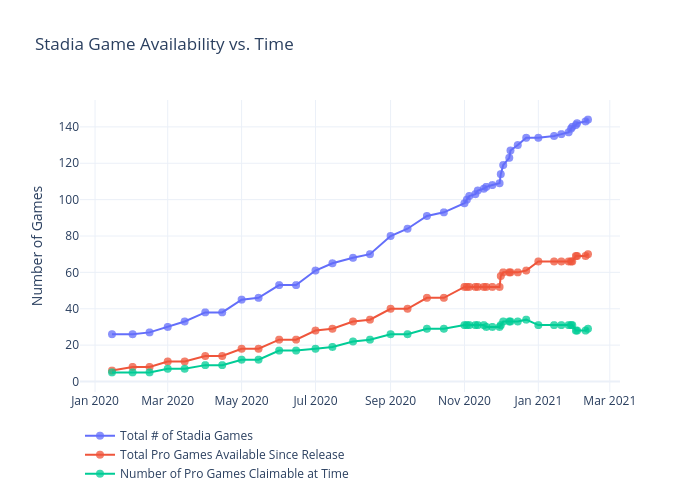
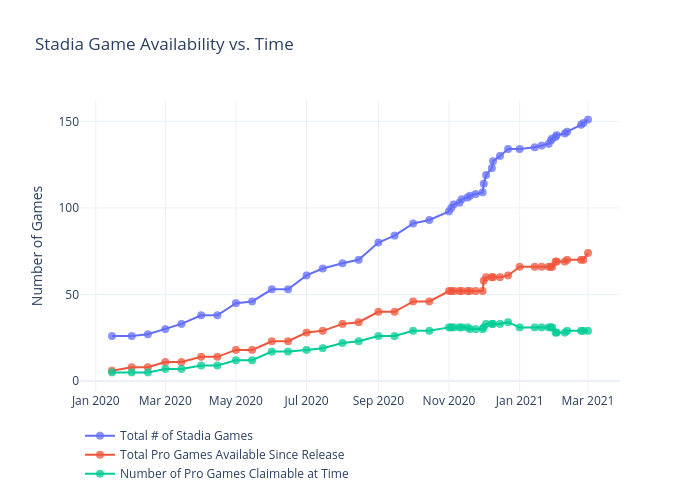
Add files via upload

diff --git a/games/figure.js b/games/figure.js
@@ -56,7 +56,10 @@ var figure = {
                 "2021-02-01",
                 "2021-02-02",
                 "2021-02-09",
-                "2021-02-11"
+                "2021-02-11",
+                "2021-02-23",
+                "2021-02-25",
+                "2021-03-01"
             ],
             "ysrc": "jdeslip:358:e03fe9",
             "y": [
@@ -104,7 +107,10 @@ var figure = {
                 "141",
                 "142",
                 "143",
-                "144"
+                "144",
+                "148",
+                "149",
+                "151"
             ],
             "marker": {
                 "size": 8,
@@ -170,7 +176,10 @@ var figure = {
                 "2021-02-01",
                 "2021-02-02",
                 "2021-02-09",
-                "2021-02-11"
+                "2021-02-11",
+                "2021-02-23",
+                "2021-02-25",
+                "2021-03-01"
             ],
             "ysrc": "jdeslip:358:5f7e72",
             "y": [
@@ -218,7 +227,10 @@ var figure = {
                 "69",
                 "69",
                 "69",
-                "70"
+                "70",
+                "70",
+                "70",
+                "74"
             ],
             "marker": {
                 "size": 8,
@@ -284,7 +296,10 @@ var figure = {
                 "2021-02-01",
                 "2021-02-02",
                 "2021-02-09",
-                "2021-02-11"
+                "2021-02-11",
+                "2021-02-23",
+                "2021-02-25",
+                "2021-03-01"
             ],
             "ysrc": "jdeslip:358:81d550",
             "y": [
@@ -332,6 +347,9 @@ var figure = {
                 "28",
                 "28",
                 "28",
+                "29",
+                "29",
+                "29",
                 "29"
             ],
             "marker": {
@@ -350,8 +368,8 @@ var figure = {
         "xaxis": {
             "type": "date",
             "range": [
-                "2019-12-21 16:49:27.8148",
-                "2021-03-07 07:10:32.1852"
+                "2019-12-20 14:06:50.6155",
+                "2021-03-26 09:53:09.3845"
             ],
             "title": {
                 "text": ""
@@ -361,8 +379,8 @@ var figure = {
         "yaxis": {
             "type": "linear",
             "range": [
-                -4.951501154734412,
-                153.95150115473442
+                -5.452655889145499,
+                161.4526558891455
             ],
             "title": {
                 "text": "Number of Games"
